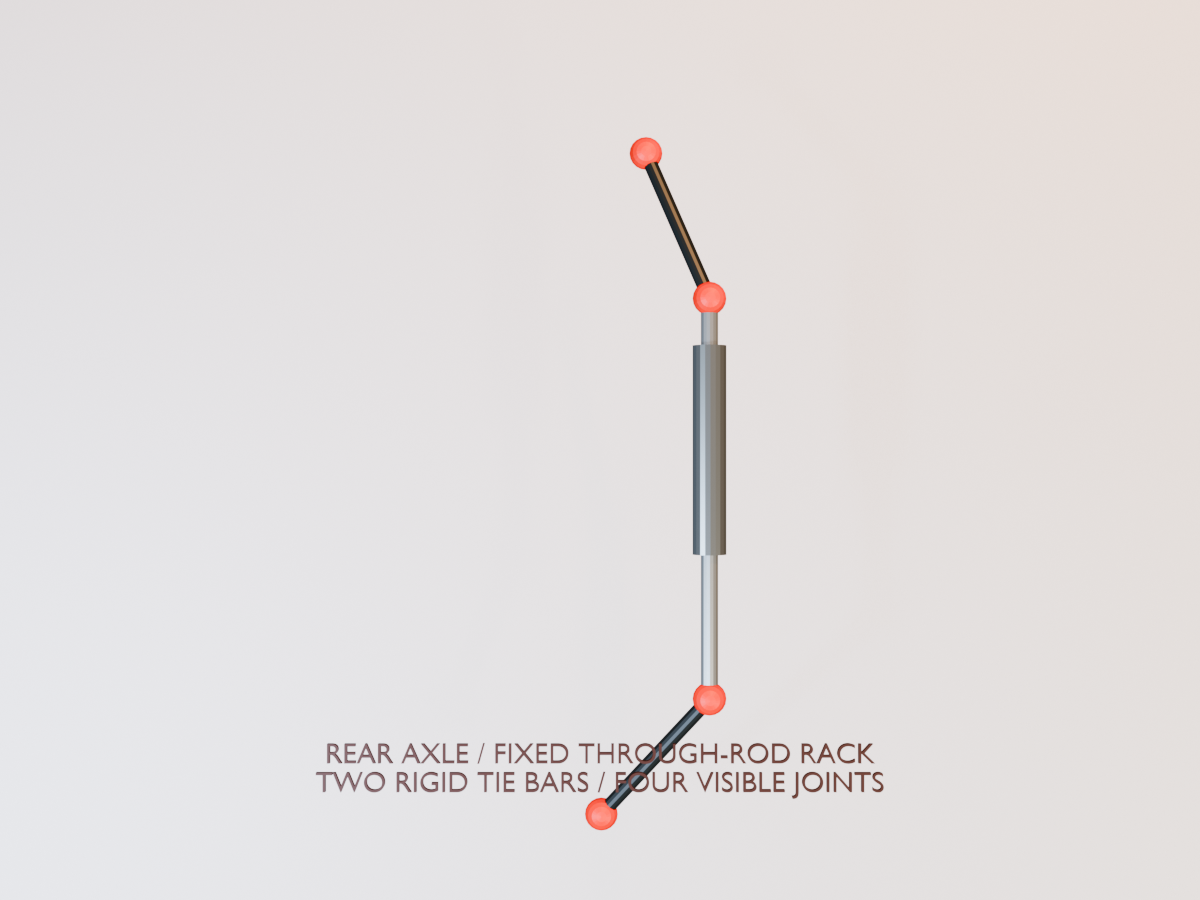
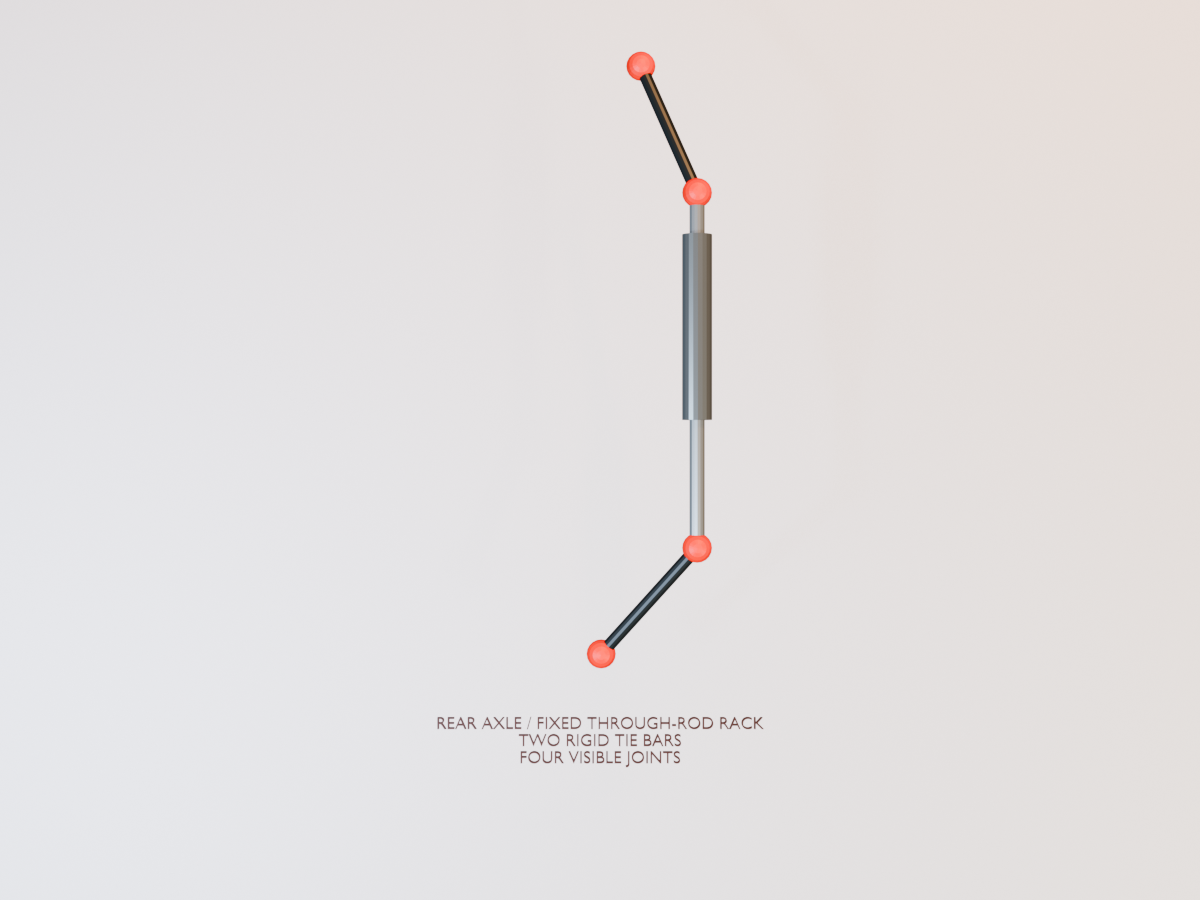
fix 742 review render framing

Changed region(s): [[0.2467, 0.0622, 0.74, 0.9333]]

diff --git a/scripts/render_742_preview.py b/scripts/render_742_preview.py
@@ -146,6 +146,7 @@ for name, location, energy, size, color in (
 
 scene = bpy.context.scene
 scene.render.engine = "BLENDER_EEVEE"
+scene.eevee.use_taa_reprojection = False
 scene.render.resolution_x = 1200
 scene.render.resolution_y = 900
 scene.render.resolution_percentage = 100
@@ -306,11 +307,11 @@ for marker_name, beam_name, endpoint_index in (
 rear_center = (bpy.data.objects["SteerPivot_RL"].matrix_world.translation +
                bpy.data.objects["SteerPivot_RR"].matrix_world.translation) / 2
 camera.data.lens = 58
-camera.location = rear_center + Vector((0.0, 0.0, 6.4))
-point_at(camera, rear_center)
+camera.location = rear_center + Vector((0.0, -.45, 7.2))
+point_at(camera, rear_center + Vector((0, -.45, 0)))
 rear_label = proof_label("Proof_RearSteering",
-                         "REAR AXLE / FIXED THROUGH-ROD RACK\nTWO RIGID TIE BARS / FOUR VISIBLE JOINTS",
-                         rear_center + Vector((0, -.80, 1.55)), .072, steering_label_mat)
+                         "REAR AXLE / FIXED THROUGH-ROD RACK\nTWO RIGID TIE BARS\nFOUR VISIBLE JOINTS",
+                         rear_center + Vector((0, -1.30, 1.55)), .050, steering_label_mat)
 rear_label.rotation_mode = "XYZ"; rear_label.rotation_euler = (0, 0, 0)
 scene.render.filepath = str(OUTPUT_DIR / "742-rear-steering-linkage.png")
 bpy.ops.render.render(write_still=True)
@@ -424,26 +425,51 @@ point_at(camera, (2.0, 0, 7.0))
 face_labels(lift_labels, camera)
 scene.render.filepath = str(OUTPUT_DIR / "742-maximum-lift-level-forks.png")
 bpy.ops.render.render(write_still=True)
+level_datum.hide_render = True
+lift_ground_datum.hide_render = True
+lift_dimension.hide_render = True
+for target in lift_labels:
+    target.hide_render = True
 fork_cutaway = [target for target in bpy.data.objects
                 if target.type in {"MESH", "CURVE", "FONT"} and target.get("component") == "carriage"
                 and not target.name.startswith(("Fork",))]
 for target in fork_cutaway:
     target.hide_render = True
 fork_center = sum(max_lift_forks, Vector()) / len(max_lift_forks)
+fork_x_min = min(point.x for point in max_lift_forks)
+fork_x_max = max(point.x for point in max_lift_forks)
+fork_y_camera_side = min(point.y for point in max_lift_forks)
+close_datum = [
+    proof_beam("Proof_MaxLiftCloseSurface",
+               (fork_x_min, fork_y_camera_side, max_lift_surface),
+               (fork_x_max, fork_y_camera_side, max_lift_surface), .018, datum_mat),
+    proof_beam("Proof_MaxLiftCloseHeelTick",
+               (fork_x_min, fork_y_camera_side, max_lift_surface - .12),
+               (fork_x_min, fork_y_camera_side, max_lift_surface + .12), .018, datum_mat),
+    proof_beam("Proof_MaxLiftCloseTipTick",
+               (fork_x_max, fork_y_camera_side, max_lift_surface - .12),
+               (fork_x_max, fork_y_camera_side, max_lift_surface + .12), .018, datum_mat),
+    proof_sphere("Proof_MaxLiftCloseHeelContact",
+                 (fork_x_min, fork_y_camera_side, max_lift_surface), .035, datum_mat),
+    proof_sphere("Proof_MaxLiftCloseTipContact",
+                 (fork_x_max, fork_y_camera_side, max_lift_surface), .035, datum_mat),
+    proof_label("Proof_MaxLiftCloseLabel",
+                f"RED LINE = VALIDATED POSED-GLB FORK TOP / LOAD SURFACE\n{max_lift_surface:.6f} m ABOVE GROUND DATUM",
+                ((fork_x_min + fork_x_max) / 2, fork_y_camera_side - .05,
+                 max_lift_surface + .42), .105, label_mat),
+]
 scene.render.resolution_x = 1200
 scene.render.resolution_y = 900
-camera.data.lens = 68
-camera.location = fork_center + Vector((3.2, -4.6, 1.8))
-point_at(camera, fork_center)
+camera.data.lens = 72
+camera.location = fork_center + Vector((4.4, -7.2, 2.7))
+point_at(camera, fork_center + Vector((0, 0, .16)))
+face_labels([target for target in close_datum if target.type == "FONT"], camera)
 scene.render.filepath = str(OUTPUT_DIR / "742-maximum-lift-forks-close.png")
 bpy.ops.render.render(write_still=True)
+for target in close_datum:
+    bpy.data.objects.remove(target, do_unlink=True)
 for target in fork_cutaway:
     target.hide_render = False
-level_datum.hide_render = True
-lift_ground_datum.hide_render = True
-lift_dimension.hide_render = True
-for target in lift_labels:
-    target.hide_render = True
 max_lift_key.hide_render = True
 pose_mechanisms(3 / 69, 1.0)
 bpy.context.view_layer.update()
@@ -481,4 +507,30 @@ scene.render.filepath = str(OUTPUT_DIR / "742-maximum-reach-24in-load-center.png
 bpy.ops.render.render(write_still=True)
 for target in datum_objects:
     target.hide_render = True
+
+# Blender 5.1 produces byte-variable PNG containers for identical Eevee pixels.
+# macOS ImageIO's decode/re-encode removes that container-only variance while
+# preserving the rendered RGBA pixels, so the review allowlist can bind stable
+# bytes rather than a single-session encoder artifact.
+owned_render_names = (
+    "742-boom-pivot-angle-sensor.png",
+    "742-cab-close.png",
+    "742-circle-steering-plan.png",
+    "742-crab-steering-plan.png",
+    "742-front-steering-plan.png",
+    "742-maximum-lift-forks-close.png",
+    "742-maximum-lift-level-forks.png",
+    "742-maximum-reach-24in-load-center.png",
+    "742-rear-steering-linkage.png",
+    "742-retract-chain-routing-cutaway.png",
+    "742-front-double-ended-steer-cylinder-cutaway.png",
+    "742-stowed-front-left.png",
+)
+for render_name in owned_render_names:
+    render_path = OUTPUT_DIR / render_name
+    normalized_path = render_path.with_name(f"{render_path.stem}.normalized.png")
+    subprocess.run(("sips", "-s", "format", "png", str(render_path),
+                    "--out", str(normalized_path)), check=True,
+                   capture_output=True, text=True)
+    normalized_path.replace(render_path)
 print(OUTPUT_DIR)

diff --git a/scripts/validate_742_review.py b/scripts/validate_742_review.py
@@ -61,7 +61,7 @@ EXTENDED_VISUAL_RENDER_CONTRACT = (
     {
         "semantic_id": "maximum_lift_fork_closeup",
         "path": "docs/review/742/maximum-lift-forks-close.png",
-        "claim": "Fork heels, blades, attachment, and level relationship are visible at maximum lift.",
+        "claim": "Fork heels, blades, and the red validated posed-GLB fork-top/load-surface datum with exact contact markers are fully framed at maximum lift.",
     },
     {
         "semantic_id": "maximum_reach_load_center_pose",
@@ -81,7 +81,7 @@ EXTENDED_VISUAL_RENDER_CONTRACT = (
     {
         "semantic_id": "rear_through_rod_two_tie_bars_four_joints",
         "path": "docs/review/742/rear-steering-linkage.png",
-        "claim": "The visible REAR AXLE / FIXED THROUGH-ROD RACK label identifies the rear state; the through-rod rack, two rigid tie bars, and four highlighted joints are visible.",
+        "claim": "The unobstructed REAR AXLE / FIXED THROUGH-ROD RACK caption identifies the rear state; the through-rod rack, two rigid tie bars, and all four highlighted joints are visible without label overlap.",
     },
     {
         "semantic_id": "circle_headings_two_actual_icrs_scrub",
